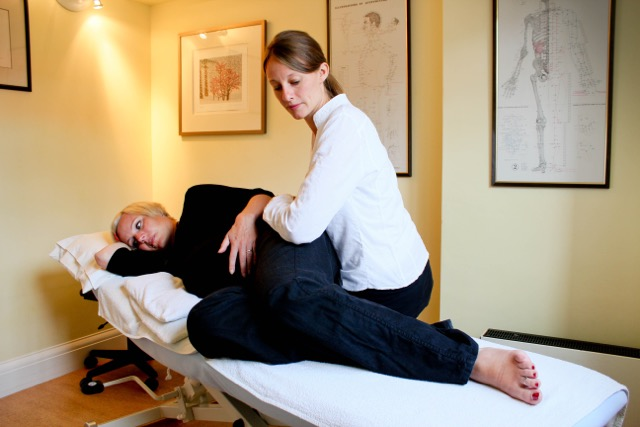
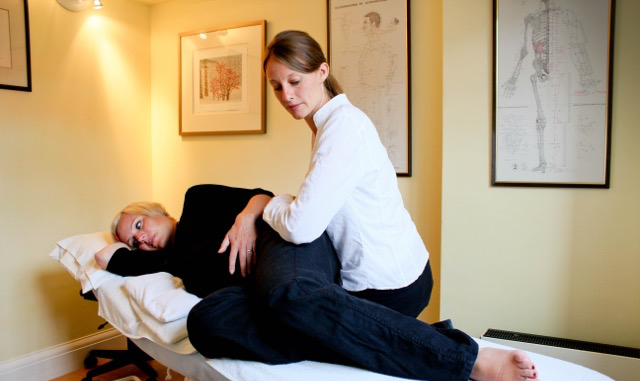
osteo pics moved

diff --git a/src/pages/osteopathy.js b/src/pages/osteopathy.js
@@ -44,7 +44,7 @@ const ImageHolder = styled.div`
     object-fit: cover;
     width: 100%;
     @media (min-width: 900px) {
-      min-height: 270px;
+      min-height: 300px;
     }
   }
 `
@@ -128,7 +128,7 @@ const OsteopathyPage = () => (
     <TherapyHeader therapy="osteopathy" />
     <HeroHolder>
       <ImageHolder>
-        <img src={osteobaby} alt="treating shoulders" />
+        <img src={shoulders} alt="treating shoulders" />
       </ImageHolder>
       <Osteopaths />
       <BlurbHolder>
@@ -159,7 +159,7 @@ const OsteopathyPage = () => (
       </BlurbPicContainer>
       <BlurbPicContainer>
         <ImageHolder>
-          <img src={handshead} alt="hands on head" />
+          <img src={osteobaby} alt="hands on head" />
         </ImageHolder>
         <BlurbHolder>
           <BlurbHeader>CRANIAL OSTEOPATHY</BlurbHeader>

diff --git a/src/components/Footer.js b/src/components/Footer.js
@@ -1,15 +1,6 @@
 import React from 'react'
 import Link from 'gatsby-link'
 import styled from 'styled-components'
-import Icon from 'react-icons-kit'
-import { arrowUpThin } from 'react-icons-kit/metrize/arrowUpThin'
-
-const scrollToTop = () => {
-  window.scrollTo({
-    top: 0,
-    behavior: 'smooth',
-  })
-}
 
 const FooterWrapper = styled.div`
   background: #142c14;

diff --git a/src/components/Links.js b/src/components/Links.js
@@ -1,5 +1,7 @@
 import React from 'react'
 import styled from 'styled-components'
+import Headroom from 'react-headroom'
+
 import Icon from 'react-icons-kit'
 import { facebookOfficial } from 'react-icons-kit/fa/facebookOfficial'
 import { arrowUpThin } from 'react-icons-kit/metrize/arrowUpThin'
